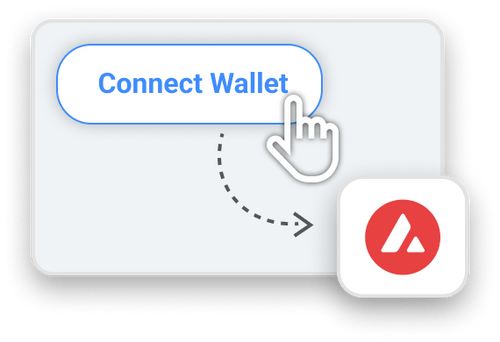
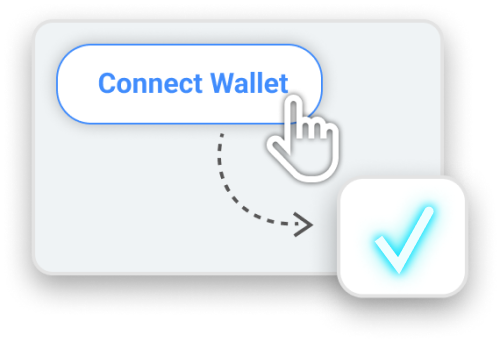
feat: update landing page graphics

Changed region(s): [[0.72, 0.5848, 0.9, 0.8187]]

diff --git a/index.html b/index.html
@@ -146,7 +146,7 @@
     <div class="feature-wrap icons">
       <div class="feature-content icons"><img src="images/Group-714.png" loading="lazy"
           sizes="(max-width: 633px) 90vw, (max-width: 767px) 570px, (max-width: 991px) 24vw, (max-width: 1439px) 26vw, 27vw"
-          srcset="images/Group-714.png 500w, images/Group-714.png 570w" alt="">
+          srcset="images/Group-714-p-500.png 500w, images/Group-714.png 570w" alt="">
         <h4 class="black-text">1. Connect your wallet</h4>
         <p class="paragraph-8">&nbsp;<br><br></p>
       </div>
